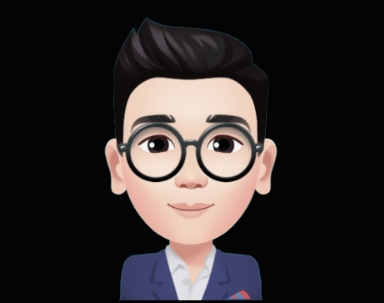
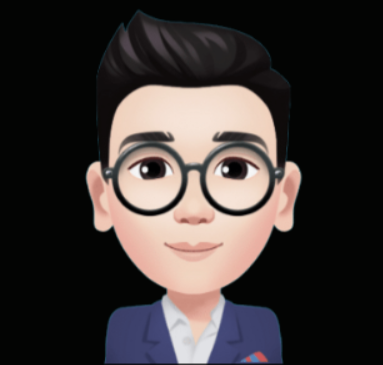
Added CRTO Review

Changed region(s): [[0.201, 0.0297, 0.8042, 1.0], [0.4308, 0.6535, 0.5744, 0.7129], [0.6893, 0.1782, 0.7755, 0.2376]]

diff --git a/index.html b/index.html
@@ -102,7 +102,7 @@
         data-srcset="/images/profile.png, /images/profile.png 1.5x, /images/profile.png 2x"
         data-sizes="auto"
         alt="/images/profile.png"
-        title="/images/profile.png" width="384" height="303" /></a></div><div class="home-subtitle"><div id="id-3" class="typeit"></div></div><div class="links"><a href="https://github.com/gr4n173" title="GitHub" target="_blank" rel="noopener noreffer me"><i class="fab fa-github fa-fw" aria-hidden="true"></i></a><a href="https://twitter.com/gr4n173" title="Twitter" target="_blank" rel="noopener noreffer me"><i class="fab fa-twitter fa-fw" aria-hidden="true"></i></a><a href="https://www.instagram.com/just_4_n00b" title="Instagram" target="_blank" rel="noopener noreffer me"><i class="fab fa-instagram fa-fw" aria-hidden="true"></i></a><a href="https://facebook.com/gr4n173" title="facebook" target="_blank" rel="noopener noreffer me"><i class="fab fa-facebook fa-fw" aria-hidden="true"></i></a><a href="https://t.me/xxxx" title="Telegram" target="_blank" rel="noopener noreffer me"><i class="fab fa-telegram-plane fa-fw" aria-hidden="true"></i></a><a href="https://medium.com/gr4n173" title="Medium" target="_blank" rel="noopener noreffer me"><i class="fab fa-medium fa-fw" aria-hidden="true"></i></a><a href="https://mastodon.technology/@xxxx" title="Mastodon" target="_blank" rel="noopener noreffer me"><i class="fab fa-mastodon fa-fw" aria-hidden="true"></i></a><a href="mailto:me.gr4n173@protonmail.com" title="Email" rel="me"><i class="far fa-envelope fa-fw" aria-hidden="true"></i></a><a href="/index.xml" title="RSS" target="_blank" rel="noopener noreffer me"><i class="fas fa-rss fa-fw" aria-hidden="true"></i></a></div></div>
+        title="/images/profile.png" width="383" height="365" /></a></div><div class="home-subtitle"><div id="id-3" class="typeit"></div></div><div class="links"><a href="https://github.com/gr4n173" title="GitHub" target="_blank" rel="noopener noreffer me"><i class="fab fa-github fa-fw" aria-hidden="true"></i></a><a href="https://twitter.com/gr4n173" title="Twitter" target="_blank" rel="noopener noreffer me"><i class="fab fa-twitter fa-fw" aria-hidden="true"></i></a><a href="https://www.instagram.com/just_4_n00b" title="Instagram" target="_blank" rel="noopener noreffer me"><i class="fab fa-instagram fa-fw" aria-hidden="true"></i></a><a href="https://facebook.com/gr4n173" title="facebook" target="_blank" rel="noopener noreffer me"><i class="fab fa-facebook fa-fw" aria-hidden="true"></i></a><a href="https://t.me/xxxx" title="Telegram" target="_blank" rel="noopener noreffer me"><i class="fab fa-telegram-plane fa-fw" aria-hidden="true"></i></a><a href="https://medium.com/gr4n173" title="Medium" target="_blank" rel="noopener noreffer me"><i class="fab fa-medium fa-fw" aria-hidden="true"></i></a><a href="https://mastodon.technology/@xxxx" title="Mastodon" target="_blank" rel="noopener noreffer me"><i class="fab fa-mastodon fa-fw" aria-hidden="true"></i></a><a href="mailto:me.gr4n173@protonmail.com" title="Email" rel="me"><i class="far fa-envelope fa-fw" aria-hidden="true"></i></a><a href="/index.xml" title="RSS" target="_blank" rel="noopener noreffer me"><i class="fas fa-rss fa-fw" aria-hidden="true"></i></a></div></div>
 <article class="single summary" itemscope itemtype="http://schema.org/Article"><div class="featured-image-preview">
             <a href="/crto_review/"><img
         class="lazyload"

diff --git a/page/2/index.html b/page/2/index.html
@@ -102,7 +102,7 @@
         data-srcset="/images/profile.png, /images/profile.png 1.5x, /images/profile.png 2x"
         data-sizes="auto"
         alt="/images/profile.png"
-        title="/images/profile.png" width="384" height="303" /></a></div><div class="home-subtitle"><div id="id-3" class="typeit"></div></div><div class="links"><a href="https://github.com/gr4n173" title="GitHub" target="_blank" rel="noopener noreffer me"><i class="fab fa-github fa-fw" aria-hidden="true"></i></a><a href="https://twitter.com/gr4n173" title="Twitter" target="_blank" rel="noopener noreffer me"><i class="fab fa-twitter fa-fw" aria-hidden="true"></i></a><a href="https://www.instagram.com/just_4_n00b" title="Instagram" target="_blank" rel="noopener noreffer me"><i class="fab fa-instagram fa-fw" aria-hidden="true"></i></a><a href="https://facebook.com/gr4n173" title="facebook" target="_blank" rel="noopener noreffer me"><i class="fab fa-facebook fa-fw" aria-hidden="true"></i></a><a href="https://t.me/xxxx" title="Telegram" target="_blank" rel="noopener noreffer me"><i class="fab fa-telegram-plane fa-fw" aria-hidden="true"></i></a><a href="https://medium.com/gr4n173" title="Medium" target="_blank" rel="noopener noreffer me"><i class="fab fa-medium fa-fw" aria-hidden="true"></i></a><a href="https://mastodon.technology/@xxxx" title="Mastodon" target="_blank" rel="noopener noreffer me"><i class="fab fa-mastodon fa-fw" aria-hidden="true"></i></a><a href="mailto:me.gr4n173@protonmail.com" title="Email" rel="me"><i class="far fa-envelope fa-fw" aria-hidden="true"></i></a><a href="/index.xml" title="RSS" target="_blank" rel="noopener noreffer me"><i class="fas fa-rss fa-fw" aria-hidden="true"></i></a></div></div>
+        title="/images/profile.png" width="383" height="365" /></a></div><div class="home-subtitle"><div id="id-3" class="typeit"></div></div><div class="links"><a href="https://github.com/gr4n173" title="GitHub" target="_blank" rel="noopener noreffer me"><i class="fab fa-github fa-fw" aria-hidden="true"></i></a><a href="https://twitter.com/gr4n173" title="Twitter" target="_blank" rel="noopener noreffer me"><i class="fab fa-twitter fa-fw" aria-hidden="true"></i></a><a href="https://www.instagram.com/just_4_n00b" title="Instagram" target="_blank" rel="noopener noreffer me"><i class="fab fa-instagram fa-fw" aria-hidden="true"></i></a><a href="https://facebook.com/gr4n173" title="facebook" target="_blank" rel="noopener noreffer me"><i class="fab fa-facebook fa-fw" aria-hidden="true"></i></a><a href="https://t.me/xxxx" title="Telegram" target="_blank" rel="noopener noreffer me"><i class="fab fa-telegram-plane fa-fw" aria-hidden="true"></i></a><a href="https://medium.com/gr4n173" title="Medium" target="_blank" rel="noopener noreffer me"><i class="fab fa-medium fa-fw" aria-hidden="true"></i></a><a href="https://mastodon.technology/@xxxx" title="Mastodon" target="_blank" rel="noopener noreffer me"><i class="fab fa-mastodon fa-fw" aria-hidden="true"></i></a><a href="mailto:me.gr4n173@protonmail.com" title="Email" rel="me"><i class="far fa-envelope fa-fw" aria-hidden="true"></i></a><a href="/index.xml" title="RSS" target="_blank" rel="noopener noreffer me"><i class="fas fa-rss fa-fw" aria-hidden="true"></i></a></div></div>
 <article class="single summary" itemscope itemtype="http://schema.org/Article"><div class="featured-image-preview">
             <a href="/moee-1/"><img
         class="lazyload"

diff --git a/crto_review/index.html b/crto_review/index.html
@@ -8,8 +8,8 @@
 <meta property="og:description" content="Here you will get my CRTO exam review." />
 <meta property="og:type" content="article" />
 <meta property="og:url" content="http://example.com/crto_review/" /><meta property="og:image" content="http://example.com/crto_review/featured-image.png"/><meta property="article:section" content="posts" />
-<meta property="article:published_time" content="2023-02-24T10:29:01+08:00" />
-<meta property="article:modified_time" content="2023-02-24T14:45:01+08:00" /><meta property="og:site_name" content="My cool site" />
+<meta property="article:published_time" content="2023-02-24T12:29:01+08:00" />
+<meta property="article:modified_time" content="2023-02-24T15:45:01+08:00" /><meta property="og:site_name" content="My cool site" />
 <meta name="twitter:card" content="summary_large_image"/>
 <meta name="twitter:image" content="http://example.com/crto_review/featured-image.png"/>
 <meta name="twitter:title" content="CRTO Review"/>
@@ -34,9 +34,14 @@
                             "width":  813 ,
                             "height":  307 
                         }],"genre": "posts","keywords": "crto, redteaming, review, cobaltstrike","wordcount":  1275 ,
-        "url": "http:\/\/example.com\/crto_review\/","datePublished": "2023-02-24T10:29:01+08:00","dateModified": "2023-02-24T14:45:01+08:00","license": "This work is licensed under a Creative Commons Attribution-NonCommercial 4.0 International License.","publisher": {
+        "url": "http:\/\/example.com\/crto_review\/","datePublished": "2023-02-24T12:29:01+08:00","dateModified": "2023-02-24T15:45:01+08:00","license": "This work is licensed under a Creative Commons Attribution-NonCommercial 4.0 International License.","publisher": {
             "@type": "Organization",
-            "name": "xxxx","logo": "http:\/\/example.com\/images\/profile.jpg"},"author": {
+            "name": "xxxx","logo": {
+                    "@type": "ImageObject",
+                    "url": "http:\/\/example.com\/images\/profile.jpg",
+                    "width":  400 ,
+                    "height":  400 
+                }},"author": {
                 "@type": "Person",
                 "name": "gr4n173"
             },"description": "Here you will get my CRTO exam review."

diff --git a/virsecctf_scripting/index.html b/virsecctf_scripting/index.html
@@ -37,7 +37,12 @@
                         }],"genre": "posts","keywords": "linux, virseccon, ctf, scripting, python, selenium, pwn","wordcount":  1089 ,
         "url": "http:\/\/example.com\/virsecctf_scripting\/","datePublished": "2020-04-13T09:45:01+08:00","dateModified": "2020-04-13T09:45:01+08:00","license": "This work is licensed under a Creative Commons Attribution-NonCommercial 4.0 International License.","publisher": {
             "@type": "Organization",
-            "name": "xxxx","logo": "http:\/\/example.com\/images\/profile.jpg"},"author": {
+            "name": "xxxx","logo": {
+                    "@type": "ImageObject",
+                    "url": "http:\/\/example.com\/images\/profile.jpg",
+                    "width":  400 ,
+                    "height":  400 
+                }},"author": {
                 "@type": "Person",
                 "name": "gr4n173"
             },"description": " Here, I will explain about all the challenges that I solved from scriting category."

diff --git a/ret2libc/index.html b/ret2libc/index.html
@@ -36,7 +36,12 @@
                         }],"genre": "posts","keywords": "linux, ctf, hackpackctf, pwn, BoF, ret2libc, Explotation\u0026Pwning","wordcount":  2317 ,
         "url": "http:\/\/example.com\/ret2libc\/","datePublished": "2020-07-11T21:29:01+08:00","dateModified": "2020-07-11T08:45:01+08:00","license": "This work is licensed under a Creative Commons Attribution-NonCommercial 4.0 International License.","publisher": {
             "@type": "Organization",
-            "name": "xxxx","logo": "http:\/\/example.com\/images\/profile.jpg"},"author": {
+            "name": "xxxx","logo": {
+                    "@type": "ImageObject",
+                    "url": "http:\/\/example.com\/images\/profile.jpg",
+                    "width":  400 ,
+                    "height":  400 
+                }},"author": {
                 "@type": "Person",
                 "name": "gr4n173"
             },"description": "I will explain about the pwn challenges that I solved during CTF."

diff --git a/hackpacktf/index.html b/hackpacktf/index.html
@@ -36,7 +36,12 @@
                         }],"genre": "posts","keywords": "linux, ctf, hackpackctf, pwn, BoF, Explotation\u0026Pwning","wordcount":  2269 ,
         "url": "http:\/\/example.com\/hackpacktf\/","datePublished": "2020-04-18T19:29:01+08:00","dateModified": "2020-04-18T08:45:01+08:00","license": "This work is licensed under a Creative Commons Attribution-NonCommercial 4.0 International License.","publisher": {
             "@type": "Organization",
-            "name": "xxxx","logo": "http:\/\/example.com\/images\/profile.jpg"},"author": {
+            "name": "xxxx","logo": {
+                    "@type": "ImageObject",
+                    "url": "http:\/\/example.com\/images\/profile.jpg",
+                    "width":  400 ,
+                    "height":  400 
+                }},"author": {
                 "@type": "Person",
                 "name": "gr4n173"
             },"description": "I will explain about the pwn challenges that I solved in during CTF."

diff --git a/sniper/index.html b/sniper/index.html
@@ -36,7 +36,12 @@
                         }],"genre": "posts","keywords": "windows, htb, smb, .chm, powershell, nc.exe, webshell, nishang","wordcount":  1353 ,
         "url": "http:\/\/example.com\/sniper\/","datePublished": "2020-03-28T23:29:01+08:00","dateModified": "2020-03-30T09:45:01+08:00","license": "This work is licensed under a Creative Commons Attribution-NonCommercial 4.0 International License.","publisher": {
             "@type": "Organization",
-            "name": "xxxx","logo": "http:\/\/example.com\/images\/profile.jpg"},"author": {
+            "name": "xxxx","logo": {
+                    "@type": "ImageObject",
+                    "url": "http:\/\/example.com\/images\/profile.jpg",
+                    "width":  400 ,
+                    "height":  400 
+                }},"author": {
                 "@type": "Person",
                 "name": "gr4n173"
             },"description": "Here I will explain my path for Sniper box from Hack The Box."

diff --git a/scavenger/index.html b/scavenger/index.html
@@ -36,7 +36,12 @@
                         }],"genre": "posts","keywords": "linux, htb, ftp, sqli, RE, lkm, whois, pcap, ffuf, fuzz","wordcount":  2625 ,
         "url": "http:\/\/example.com\/scavenger\/","datePublished": "2020-02-29T21:29:01+08:00","dateModified": "2020-02-29T21:29:01+08:00","license": "This work is licensed under a Creative Commons Attribution-NonCommercial 4.0 International License.","publisher": {
             "@type": "Organization",
-            "name": "xxxx","logo": "http:\/\/example.com\/images\/profile.jpg"},"author": {
+            "name": "xxxx","logo": {
+                    "@type": "ImageObject",
+                    "url": "http:\/\/example.com\/images\/profile.jpg",
+                    "width":  400 ,
+                    "height":  400 
+                }},"author": {
                 "@type": "Person",
                 "name": "gr4n173"
             },"description": "Here I will explain my path for Scavenger box from Hack The Box."

diff --git a/nephack3/index.html b/nephack3/index.html
@@ -36,7 +36,12 @@
                         }],"genre": "posts","keywords": "linux, nephack3, ctf, binaryexploitation, gdb, pwnables","wordcount":  822 ,
         "url": "http:\/\/example.com\/nephack3\/","datePublished": "2020-03-07T23:29:01+08:00","dateModified": "2020-03-07T06:45:01+08:00","license": "This work is licensed under a Creative Commons Attribution-NonCommercial 4.0 International License.","publisher": {
             "@type": "Organization",
-            "name": "xxxx","logo": "http:\/\/example.com\/images\/profile.jpg"},"author": {
+            "name": "xxxx","logo": {
+                    "@type": "ImageObject",
+                    "url": "http:\/\/example.com\/images\/profile.jpg",
+                    "width":  400 ,
+                    "height":  400 
+                }},"author": {
                 "@type": "Person",
                 "name": "gr4n173"
             },"description": "Here I will explain one of the challenge from NepHack 3.0 CTF ."

diff --git a/virsecctf_web/index.html b/virsecctf_web/index.html
@@ -37,7 +37,12 @@
                         }],"genre": "posts","keywords": "linux, virseccon, ctf, webchallenge, SSTI, PhpJuggler","wordcount":  1529 ,
         "url": "http:\/\/example.com\/virsecctf_web\/","datePublished": "2020-04-17T19:29:01+08:00","dateModified": "2020-04-17T08:45:01+08:00","license": "This work is licensed under a Creative Commons Attribution-NonCommercial 4.0 International License.","publisher": {
             "@type": "Organization",
-            "name": "xxxx","logo": "http:\/\/example.com\/images\/profile.jpg"},"author": {
+            "name": "xxxx","logo": {
+                    "@type": "ImageObject",
+                    "url": "http:\/\/example.com\/images\/profile.jpg",
+                    "width":  400 ,
+                    "height":  400 
+                }},"author": {
                 "@type": "Person",
                 "name": "gr4n173"
             },"description": "Here I will explain all the web challenges that I solved."

diff --git a/patents/index.html b/patents/index.html
@@ -36,7 +36,12 @@
                         }],"genre": "posts","keywords": "linux, htb, lfmserver, ROP, XXE, LFI-posioning, git","wordcount":  3185 ,
         "url": "http:\/\/example.com\/patents\/","datePublished": "2020-05-16T21:29:01+08:00","dateModified": "2020-05-16T08:45:01+08:00","license": "This work is licensed under a Creative Commons Attribution-NonCommercial 4.0 International License.","publisher": {
             "@type": "Organization",
-            "name": "xxxx","logo": "http:\/\/example.com\/images\/profile.jpg"},"author": {
+            "name": "xxxx","logo": {
+                    "@type": "ImageObject",
+                    "url": "http:\/\/example.com\/images\/profile.jpg",
+                    "width":  400 ,
+                    "height":  400 
+                }},"author": {
                 "@type": "Person",
                 "name": "gr4n173"
             },"description": "Here I will explain my path for Patents box from Hack The Box."

diff --git a/registery/index.html b/registery/index.html
@@ -36,7 +36,12 @@
                         }],"genre": "posts","keywords": "htb, linux, boltcms, restic-server, port-forward","wordcount":  1963 ,
         "url": "http:\/\/example.com\/registery\/","datePublished": "2020-04-04T17:55:28+08:00","dateModified": "2020-05-01T17:55:28+08:00","license": "This work is licensed under a Creative Commons Attribution-NonCommercial 4.0 International License.","publisher": {
             "@type": "Organization",
-            "name": "xxxx","logo": "http:\/\/example.com\/images\/profile.jpg"},"author": {
+            "name": "xxxx","logo": {
+                    "@type": "ImageObject",
+                    "url": "http:\/\/example.com\/images\/profile.jpg",
+                    "width":  400 ,
+                    "height":  400 
+                }},"author": {
                 "@type": "Person",
                 "name": "gr4n173"
             },"description": "Here I will explain my path for Registry box from Hack The Box."
